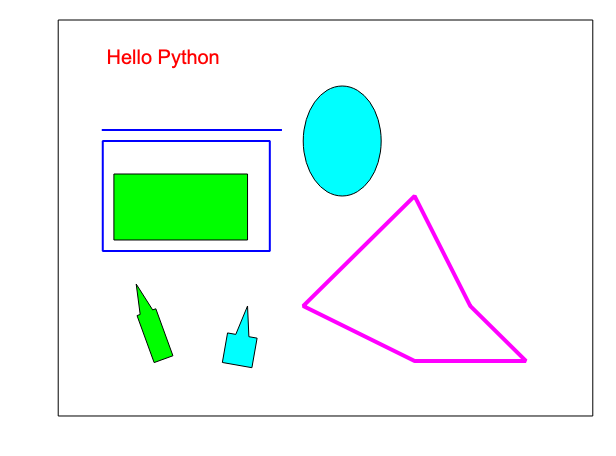
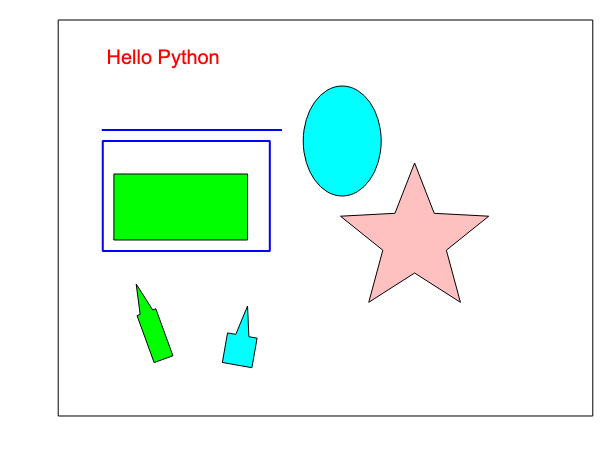
update

diff --git a/MAC_Python_Samples/pyqtgraph/pg_draw_shapes_save.py b/MAC_Python_Samples/pyqtgraph/pg_draw_shapes_save.py
@@ -7,6 +7,7 @@ import pyqtgraph as pg
 from pyqtgraph.Qt import QtCore, QtWidgets, QtGui
 import pyqtgraph.exporters as  exporters
 import numpy as np
+import math
 import sys, os
 
 
@@ -23,8 +24,16 @@ TEXT = "Hello Python"
 FONT = 'Arial'
 FONT_SIZE = 20
 
+CX = 320
+CY =160
 
-OUTFILE_WRITEIMAGE = "pg_draw_shapes_writeimage.png"
+LENGTH_OUT = 70
+LENGTH_IN = 30
+
+RAD = math.pi/5
+RAD_START = math.pi/2
+
+OUTFILE = "pg_draw_shapes.png"
 
 OUTFILE_EXPORTERS = "pg_draw_shapes_exporters.png"
 
@@ -34,7 +43,7 @@ RED = (255, 0, 0)
 GREEN = (0, 255, 0)
 BLUE =  (0, 0, 255)
 CYAN = (0, 255, 255)
-MAGENTA = (255, 0, 255)
+PINK = (255, 192, 192)
 
 
 class Window(pg.GraphicsLayoutWidget):
@@ -62,7 +71,6 @@ class Window(pg.GraphicsLayoutWidget):
         pen_black = pg.mkPen(BLACK, width=1)
         pen_blue = pg.mkPen(BLUE, width=2)
         pen_green = pg.mkPen(GREEN, width=2)
-        pen_magenta = pg.mkPen(MAGENTA, width=4)
         brash_green = pg.mkBrush(GREEN)
         brash_cyan = pg.mkBrush(CYAN)
         rect0 = QtWidgets.QGraphicsRectItem(QtCore.QRectF(0, 0, WIDTH, HEIGHT))
@@ -88,31 +96,40 @@ class Window(pg.GraphicsLayoutWidget):
         ellipse.setPen(pen_black)
         ellipse.setBrush( brash_cyan)
         plt.addItem(ellipse)
-        polygon = QtGui.QPolygonF( [ 
-            QtCore.QPointF(420, 50),  
-            QtCore.QPointF(320, 50),  
-            QtCore.QPointF(220, 100), 
-            QtCore.QPointF(270, 150), 
-            QtCore.QPointF(320, 200), 
-            QtCore.QPointF(370, 100) ] )
-        polygon_item = QtWidgets.QGraphicsPolygonItem(polygon) 
-        polygon_item.setPen(pen_magenta)
-        plt.addItem(polygon_item)
         arrow1 = pg.ArrowItem(angle=70, headLen=30, tailLen=50, tailWidth=20, pen=pen_black, brush= brash_green)
         arrow1.setPos(70, 120)
         plt.addItem(arrow1)
         arrow2 = pg.ArrowItem(angle=100, headLen=30, tailLen=30, tailWidth=30, pen=pen_black, brush= brash_cyan)
         arrow2.setPos(170, 100)
         plt.addItem(arrow2)
+        self.draw_pentagram(plt)
         self.save_plot(plt)
 # end
 
-  
+    def draw_pentagram(self, plt):
+        pen_black = pg.mkPen(BLACK, width=1)
+        brush_pink = pg.mkBrush(PINK)
+        points = []
+        for i in range(10):
+            rad = (RAD*i) +RAD_START
+            radius =  LENGTH_OUT if (i%2 ==0) else LENGTH_IN
+            x = radius * math.cos(rad) + CX
+            y = radius *math.sin(rad) + CY
+            print(x,y)
+            points.append ( QtCore.QPointF(x, y) )
+# end
+        polygon = QtGui.QPolygonF( points)
+        polygon_item = QtWidgets.QGraphicsPolygonItem(polygon) 
+        polygon_item.setPen(pen_black)
+        polygon_item.setBrush(brush_pink)
+        plt.addItem(polygon_item)
+# end
+
     def save_plot(self, plt):
-        plt.writeImage(OUTFILE_WRITEIMAGE)
-        print('create ', OUTFILE_WRITEIMAGE)
-        exporter = pg.exporters.ImageExporter(plt) 
-        exporter.export(OUTFILE_EXPORTERS) 
+        plt.writeImage(OUTFILE)
+        print('create ', OUTFILE)
+        # exporter = pg.exporters.ImageExporter(plt) 
+        # exporter.export(OUTFILE_EXPORTERS) 
 # end
 
 # main
